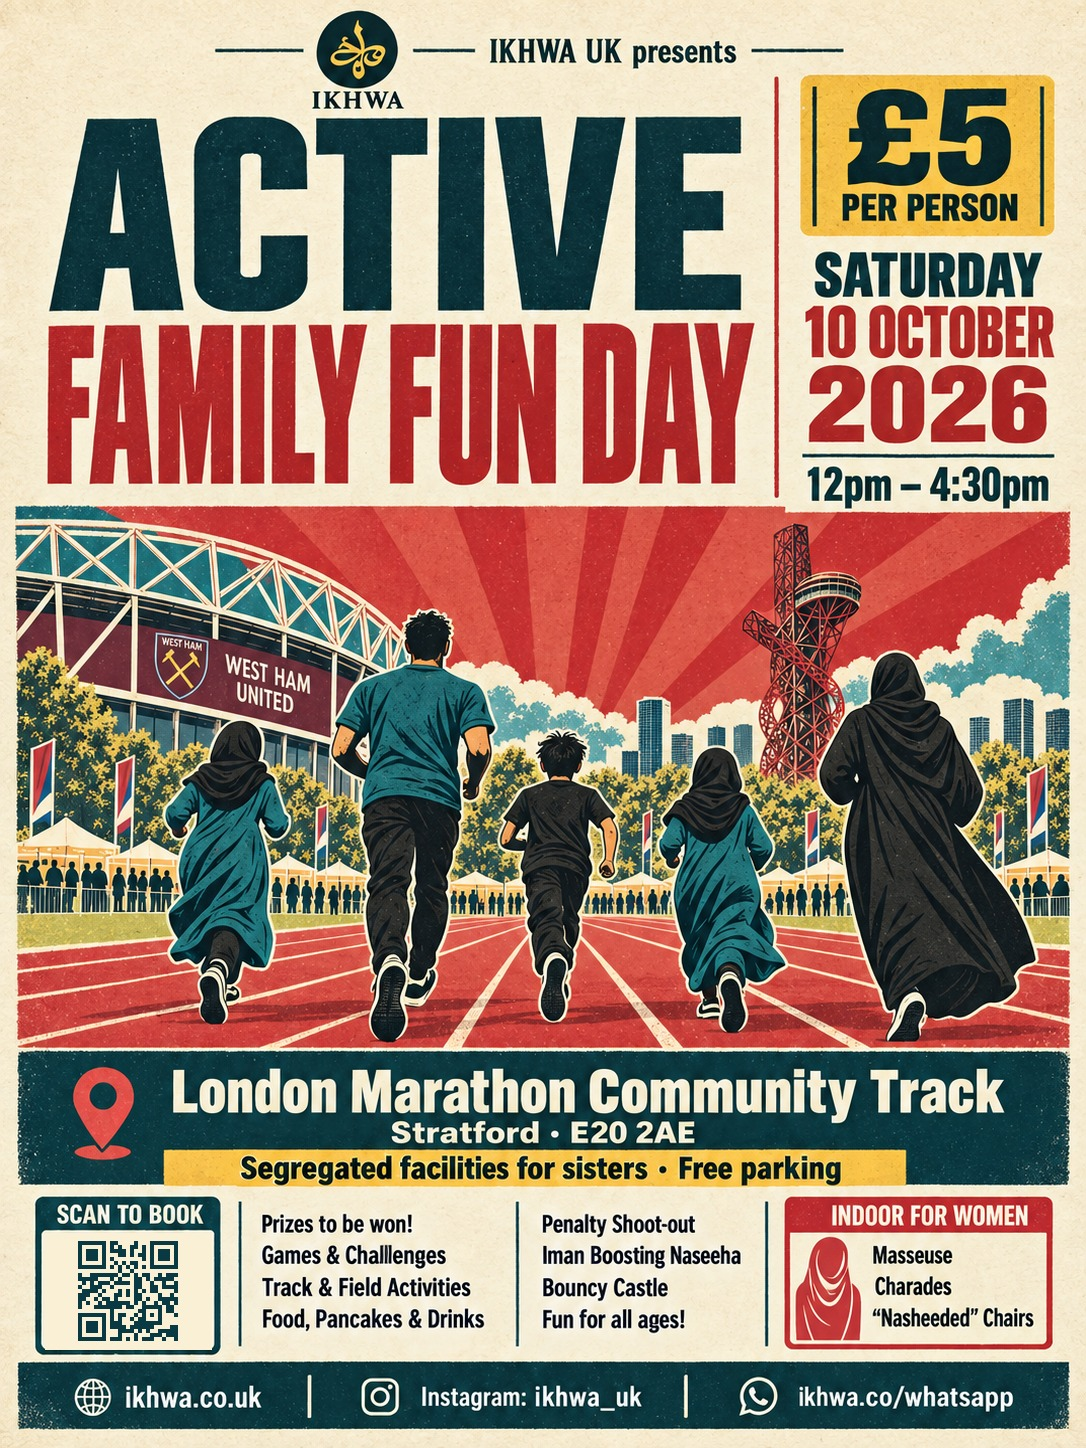
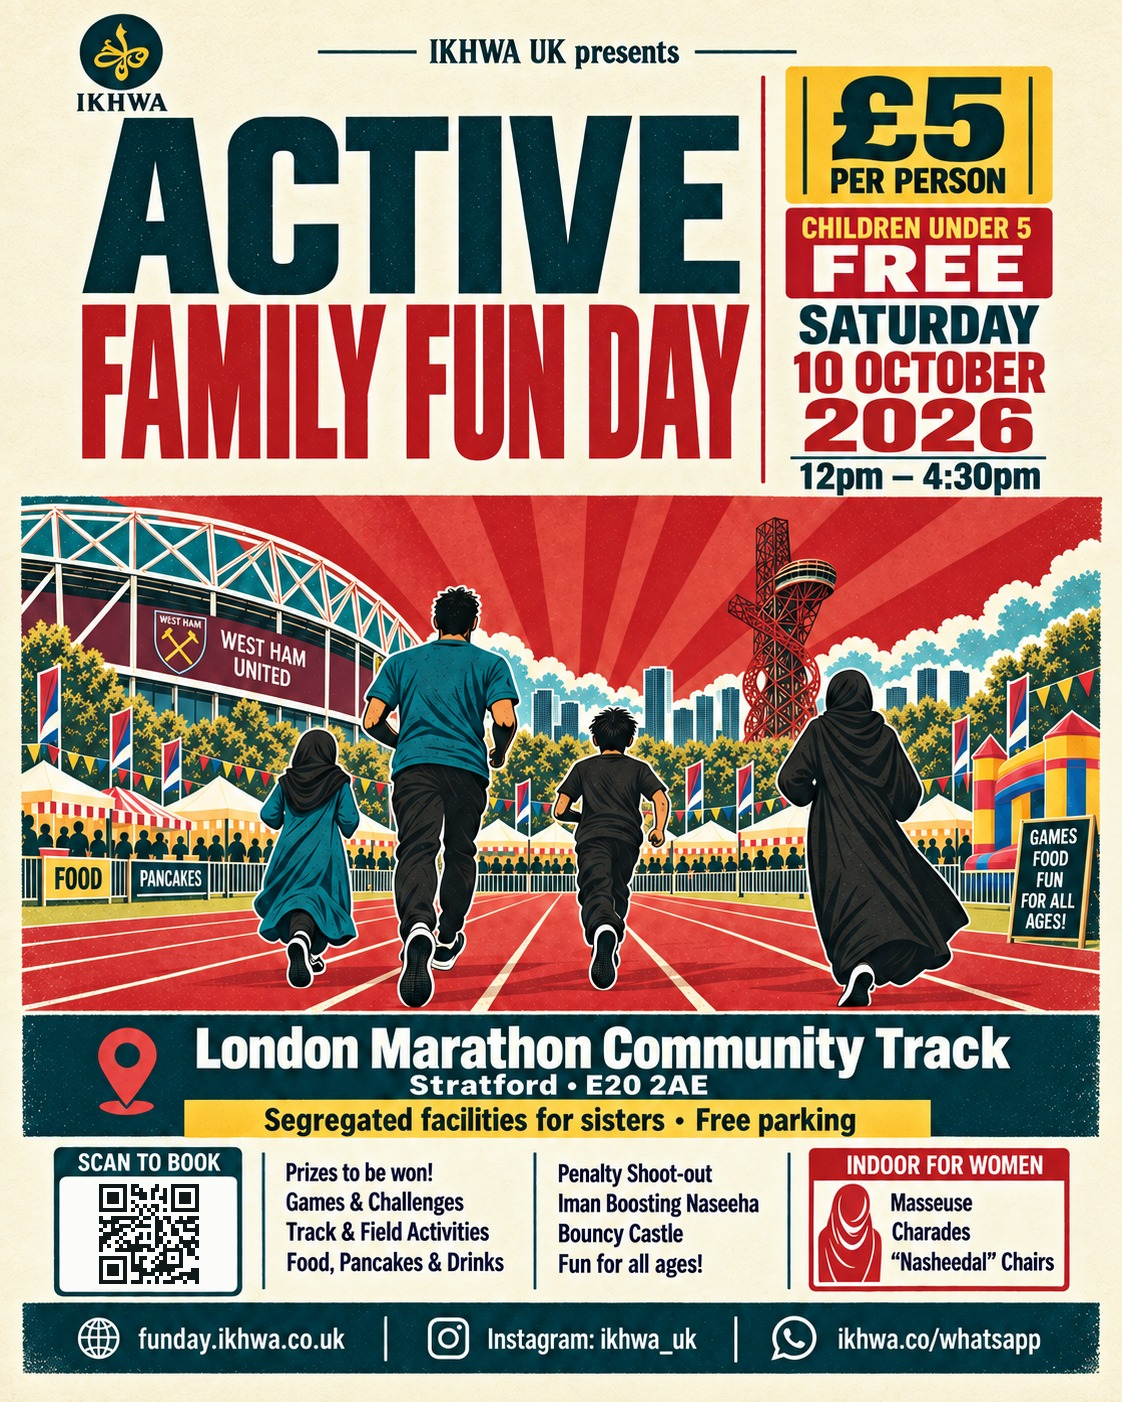
Latest 4:5 poster with a working QR

diff --git a/index.html b/index.html
@@ -7,7 +7,7 @@
 <link rel="preconnect" href="https://fonts.googleapis.com">
 <link rel="preconnect" href="https://fonts.gstatic.com" crossorigin>
 <link href="https://fonts.googleapis.com/css2?family=Anton&family=Archivo:wght@400;500;600;700&display=swap" rel="stylesheet">
-<link rel="stylesheet" href="styles.css?v=15">
+<link rel="stylesheet" href="styles.css?v=16">
 </head>
 <body>
 
@@ -201,7 +201,7 @@
   <div id="links"></div>
 </footer>
 
-<script src="details.js?v=15"></script>
-<script src="app.js?v=15"></script>
+<script src="details.js?v=16"></script>
+<script src="app.js?v=16"></script>
 </body>
 </html>

diff --git a/details.js b/details.js
@@ -11,7 +11,7 @@ window.EVENT = {
   mapsUrl: "https://maps.google.com/?q=London+Marathon+Community+Track+E20+2AE",
   notes: ["Segregated facilities for sisters", "Free parking"],
 
-  poster: "assets/poster.jpg?v=3",
+  poster: "assets/poster.jpg?v=4",
 
   pricePence: 500,
   priceLabel: "£5 per person",
